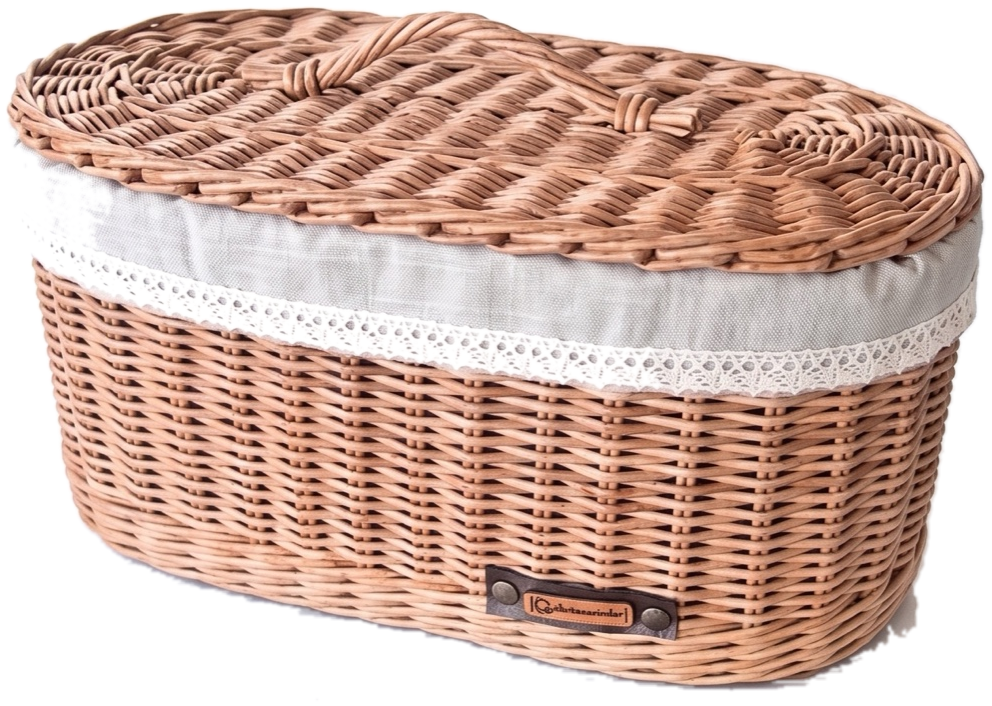
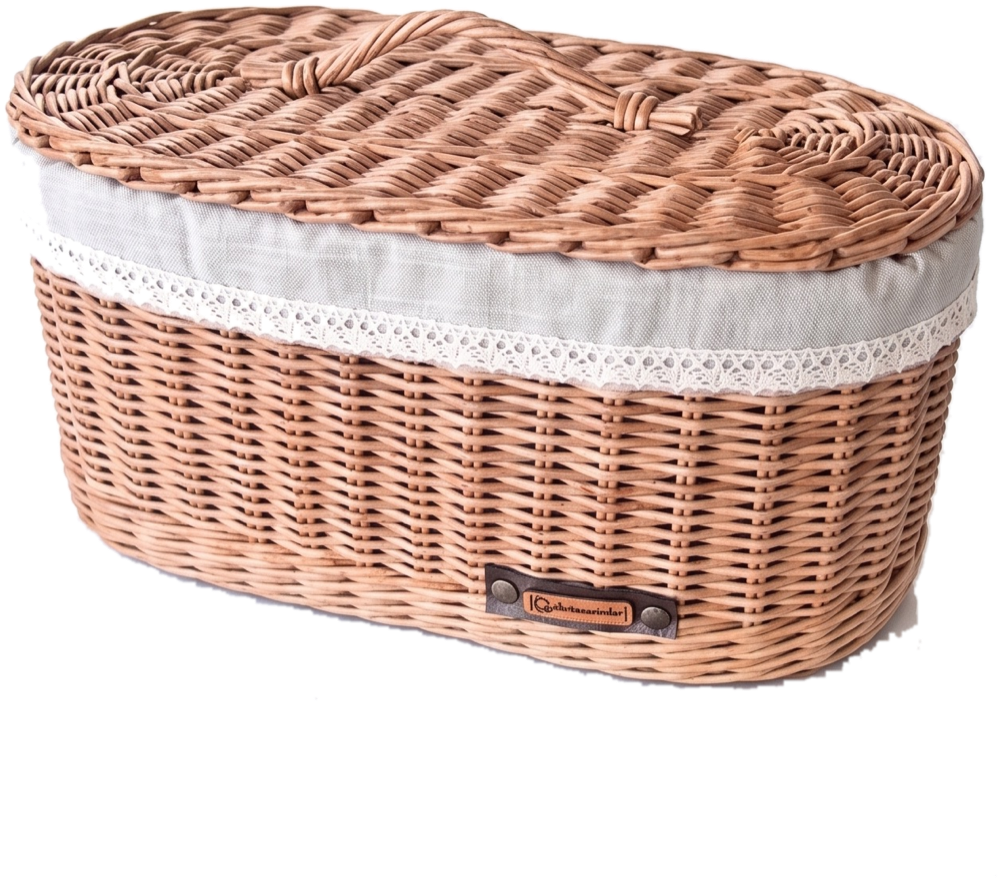
Menü, üstteki boşluk, video kontrolü ve kesim düzeltmeleri
- Başlıktan backdrop-blur kaldırıldı: iOS Safari'de sticky + backdrop-filter
  alt öğelerin dokunuşları almamasına yol açıyor
- Menü düğmesine touch-action: manipulation eklendi
- Üstteki kör nokta kapatıldı: 229px boşluk 137px'e indi, üst üste binen
  dolgular kaldırıldı
- Video kontrolü artık gerçek bir <button> ve tüm yüzeyi kaplıyor.
  iOS Safari div üzerindeki click olayını güvenilir biçimde tetiklemiyor;
  bu yüzden dokunmak işe yaramıyor, üst üste dokununca alttaki metin
  seçiliyordu. Video pointer-events: none
- Sepet kesimine morfolojik açma eklendi: astara sızan ince kollar temizlendi

diff --git a/components/hero-video.tsx b/components/hero-video.tsx
@@ -6,14 +6,15 @@ import { usePrefersReducedMotion } from "./use-reduced-motion";
 /**
  * Inline hero video that behaves on phones.
  *
- *  - iOS WebKit needs muted + playsinline set as real attributes before it will
- *    play inline without going fullscreen.
- *  - Only metadata is fetched up front; the body downloads when it plays, and
- *    it pauses again when scrolled out of view to save battery and data.
- *  - A manual pause is respected. Previously the observer restarted playback
- *    the moment the page moved, so pausing looked broken.
- *  - A visible control is not optional: WCAG 2.2.2 requires one for anything
- *    that plays automatically for more than five seconds.
+ * The whole surface is a real <button>, not a div with onClick. iOS Safari
+ * does not reliably dispatch click on non-interactive elements, which is why
+ * tapping did nothing and repeated taps just selected the text underneath.
+ *
+ *  - iOS WebKit needs muted + playsinline as real attributes to play inline.
+ *  - play() is reached synchronously from the tap: awaiting anything first
+ *    ends the user-gesture window and the browser refuses.
+ *  - Only metadata is fetched up front; playback pauses when scrolled away.
+ *  - A manual pause is respected — the observer must not restart it.
  */
 export function HeroVideo({
   src,
@@ -32,16 +33,8 @@ export function HeroVideo({
   const calm = usePrefersReducedMotion();
   const [playing, setPlaying] = useState(false);
 
-  /**
-   * Starts playback. Every call that must count as a user gesture has to reach
-   * video.play() synchronously — awaiting anything first ends the gesture and
-   * the browser refuses. So load() is called inline, not in a retry after an
-   * await, and the promise is only used to report the outcome.
-   */
   function startPlayback(video: HTMLVideoElement) {
     video.muted = true;
-    // With preload="metadata" there may be no media yet; kick it off in the
-    // same tick so play() still rides the gesture.
     if (video.readyState === 0) video.load();
     const p = video.play();
     if (p) p.then(() => setPlaying(true)).catch(() => setPlaying(false));
@@ -52,7 +45,6 @@ export function HeroVideo({
     const container = containerRef.current;
     if (!video || !container) return;
 
-    // Must be real attributes, not just properties, for iOS inline playback.
     video.muted = true;
     video.defaultMuted = true;
     video.setAttribute("muted", "");
@@ -68,7 +60,6 @@ export function HeroVideo({
       ([entry]) => {
         if (calm) return;
         if (entry.isIntersecting) {
-          // Never fight an explicit pause.
           if (!userPausedRef.current) startPlayback(video);
         } else if (!video.paused) {
           video.pause();
@@ -99,20 +90,7 @@ export function HeroVideo({
   }
 
   return (
-    <div
-      ref={containerRef}
-      onClick={toggle}
-      role="button"
-      tabIndex={0}
-      onKeyDown={(e) => {
-        if (e.key === " " || e.key === "Enter") {
-          e.preventDefault();
-          toggle();
-        }
-      }}
-      aria-label={`${label} — oynatmak veya duraklatmak için dokunun`}
-      className={`group relative cursor-pointer select-none overflow-hidden ${className}`}
-    >
+    <div ref={containerRef} className={`relative overflow-hidden ${className}`}>
       <video
         ref={videoRef}
         src={src}
@@ -120,44 +98,53 @@ export function HeroVideo({
         muted
         playsInline
         loop
-        // Cheap headers only — the 4MB body is still deferred until play.
         preload="metadata"
-        aria-label={label}
-        className="h-full w-full object-cover"
+        aria-hidden="true"
+        tabIndex={-1}
+        className="pointer-events-none h-full w-full object-cover"
       />
 
-      {!playing && (
-        <div className="pointer-events-none absolute inset-0 flex flex-col items-center justify-center bg-black/35">
-          <span className="grid h-14 w-14 place-items-center rounded-full border border-white/40 bg-black/40 text-white backdrop-blur-sm">
-            <svg viewBox="0 0 24 24" width="22" height="22" fill="currentColor" aria-hidden="true">
-              <path d="M8 5v14l11-7z" />
-            </svg>
-          </span>
-          <span className="mt-3 text-[10px] uppercase tracking-[0.22em] text-white">
-            Oynatmak için dokunun
-          </span>
-        </div>
-      )}
-
+      {/* One real button over the whole clip. Everything else is decoration
+          inside it, so there are no nested interactive elements. */}
       <button
         type="button"
-        onClick={(e) => {
-          e.stopPropagation();
-          toggle();
-        }}
-        aria-label={playing ? "Videoyu duraklat" : "Videoyu oynat"}
-        className="absolute bottom-3 right-3 grid h-11 w-11 place-items-center rounded-full border border-white/30 bg-black/50 text-white backdrop-blur-sm transition-opacity hover:bg-black/70"
+        onClick={toggle}
+        style={{ touchAction: "manipulation" }}
+        aria-label={
+          playing ? `${label} — duraklatmak için dokunun` : `${label} — oynatmak için dokunun`
+        }
+        className="absolute inset-0 flex h-full w-full cursor-pointer select-none appearance-none items-center justify-center bg-transparent p-0"
       >
-        <svg viewBox="0 0 12 12" width="11" height="11" fill="currentColor" aria-hidden="true">
-          {playing ? (
-            <>
-              <rect x="2" y="1.5" width="2.6" height="9" />
-              <rect x="7.4" y="1.5" width="2.6" height="9" />
-            </>
-          ) : (
-            <path d="M2.5 1.5 10.5 6l-8 4.5z" />
-          )}
-        </svg>
+        {!playing && (
+          <span className="pointer-events-none flex flex-col items-center bg-black/35 px-6 py-5">
+            <span className="grid h-14 w-14 place-items-center rounded-full border border-white/50 bg-black/45 text-white">
+              <svg viewBox="0 0 24 24" width="22" height="22" fill="currentColor" aria-hidden="true">
+                <path d="M8 5v14l11-7z" />
+              </svg>
+            </span>
+            <span className="mt-3 text-[10px] uppercase tracking-[0.22em] text-white">
+              Oynatmak için dokunun
+            </span>
+          </span>
+        )}
+
+        {/* Always-visible state indicator, so the control is discoverable
+            while playing too (WCAG 2.2.2). */}
+        <span
+          aria-hidden="true"
+          className="pointer-events-none absolute bottom-3 right-3 grid h-10 w-10 place-items-center rounded-full border border-white/30 bg-black/55 text-white"
+        >
+          <svg viewBox="0 0 12 12" width="11" height="11" fill="currentColor">
+            {playing ? (
+              <>
+                <rect x="2" y="1.5" width="2.6" height="9" />
+                <rect x="7.4" y="1.5" width="2.6" height="9" />
+              </>
+            ) : (
+              <path d="M2.5 1.5 10.5 6l-8 4.5z" />
+            )}
+          </svg>
+        </span>
       </button>
     </div>
   );

diff --git a/app/page.tsx b/app/page.tsx
@@ -29,9 +29,9 @@ export default async function HomePage() {
   const [products, courses] = await Promise.all([featuredProducts(4), listCourses()]);
 
   return (
-    <div className="space-y-20 py-12 md:space-y-28 md:py-20">
+    <div className="space-y-20 pb-12 md:space-y-28 md:pb-20">
       {/* 1. HERO — sepet arka planda, metin üstünde, telefonda tek ekran */}
-      <section className="relative flex min-h-[calc(100svh-4rem)] items-start overflow-hidden pt-8 md:items-center md:pt-0">
+      <section className="relative flex min-h-[calc(100svh-4rem)] items-start overflow-hidden pt-5 md:items-center md:pt-0">
         {/* Arka plan sepeti. Kesilmiş PNG, beyaz fon yok — sayfanın kendi
             rengi görünüyor. Telefonda alta, geniş ekranda sağa yaslanıyor. */}
         <div
@@ -54,7 +54,7 @@ export default async function HomePage() {
           className="pointer-events-none absolute inset-0 bg-gradient-to-t from-bg/40 via-bg/85 to-bg md:bg-gradient-to-r md:from-bg md:via-bg/80 md:to-transparent"
         />
 
-        <div className="relative mx-auto w-full max-w-6xl px-4 py-10 sm:px-6 md:py-14">
+        <div className="relative mx-auto w-full max-w-6xl px-4 pb-10 pt-2 sm:px-6 md:py-14">
           <div className="max-w-xl">
             <p className="text-xs uppercase tracking-[0.2em] text-bark-soft">
               Atölye · El Örgüsü

diff --git a/components/site-header.tsx b/components/site-header.tsx
@@ -17,7 +17,7 @@ export function SiteHeader() {
   const [open, setOpen] = useState(false);
 
   return (
-    <header className="sticky top-0 z-50 border-b border-hair bg-bg/90 backdrop-blur-md">
+    <header className="sticky top-0 z-50 border-b border-hair bg-bg">
       <div className="mx-auto flex max-w-[1400px] items-center justify-between gap-6 px-5 py-4 lg:px-10">
         <Link href="/" onClick={() => setOpen(false)} className="flex items-baseline gap-2.5">
           <span className="font-display text-[1.35rem] font-semibold leading-none tracking-tight">
@@ -66,6 +66,7 @@ export function SiteHeader() {
             aria-controls="mobil-menu"
             // 44x44 is the minimum reliable tap target on a phone; the old
             // 32x32 button was small enough that taps simply missed it.
+            style={{ touchAction: "manipulation" }}
             className="-mr-2.5 flex h-11 w-11 flex-col items-center justify-center gap-[5px] md:hidden"
           >
             <span
